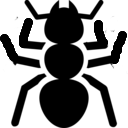
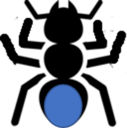
added color to ants

diff --git a/ant.cpp b/ant.cpp
@@ -3,7 +3,7 @@
 
 
 
-Ant::Ant(QString antPng, std::map<Coord, Cellule *> &_mapCellDispo, int _nbLigne, Coord &anthillPos) :
+Ant::Ant(QString antPng, std::map<Coord, Cellule *> &_mapCellDispo, int _nbLigne, Coord &anthillPos, QColor color) :
     mapCellDispo(_mapCellDispo),
     nbLigne(_nbLigne),
     antPng(antPng),
@@ -11,8 +11,24 @@ Ant::Ant(QString antPng, std::map<Coord, Cellule *> &_mapCellDispo, int _nbLigne
 {
     setx(anthillPos.x);
     setY(anthillPos.y);
-    setPixmap(QPixmap(antPng));
+
+    //color the ant
     this->antPng2 = this->antPng.left(this->antPng.lastIndexOf('.')) + "2.png";
+    this->antP = QPixmap(antPng);
+    auto mask = this->antP.createMaskFromColor(QColor(68,114,196), Qt::MaskOutColor)  ;
+    QPainter p (&this->antP);
+    p.setPen(color);
+    p.drawPixmap(this->antP.rect(), mask, mask.rect());
+    p.end();
+
+    this->antP2 = QPixmap(this->antPng2);
+    auto mask2 = this->antP2.createMaskFromColor(QColor(68,114,196), Qt::MaskOutColor)  ;
+    QPainter p2 (&this->antP2);
+    p2.setPen(color);
+    p2.drawPixmap(this->antP2.rect(), mask2, mask2.rect());
+    p2.end();
+
+    setPixmap(this->antP);
     this->setScale(scaleSize);
 
     QTimer * antTimer = new QTimer(this);
@@ -23,17 +39,35 @@ Ant::Ant(QString antPng, std::map<Coord, Cellule *> &_mapCellDispo, int _nbLigne
     antTimer->start(80);
 }
 
-Ant::Ant(QString antPng, std::map<Coord, Cellule *> &_mapCellDispo, int _nbLigne, Coord &anthillPos, bool _isAnthill):
+Ant::Ant(QString antPng, std::map<Coord, Cellule *> &_mapCellDispo, int _nbLigne, Coord &anthillPos, bool _isAnthill, QColor color):
     mapCellDispo(_mapCellDispo),
     nbLigne(_nbLigne),
     isAnthill(_isAnthill),
     antPng(antPng),    
     legPosition(0)
 {
+    this->scaleSize = 0.095;
     setx(anthillPos.x);
     setY(anthillPos.y);
-    setPixmap(QPixmap(antPng));
+    //color the ant
     this->antPng2 = this->antPng.left(this->antPng.lastIndexOf('.')) + "2.png";
+    this->antP = QPixmap(antPng);
+    auto mask = this->antP.createMaskFromColor(QColor(68,114,196), Qt::MaskOutColor)  ;
+    QPainter p (&this->antP);
+    p.setPen(color);
+    p.drawPixmap(this->antP.rect(), mask, mask.rect());
+    p.end();
+
+
+
+    this->antP2 = QPixmap(this->antPng2);
+    auto mask2 = this->antP2.createMaskFromColor(QColor(68,114,196), Qt::MaskOutColor)  ;
+    QPainter p2 (&this->antP2);
+    p2.setPen(color);
+    p2.drawPixmap(this->antP2.rect(), mask2, mask2.rect());
+    p2.end();
+
+    setPixmap(this->antP);
     this->setScale(scaleSize);
 
     if(this->isAnthill) {
@@ -174,12 +208,12 @@ void Ant::moveAnt(){
 void Ant::updatePixmap()
 {
     if (this->legPosition){
-        setPixmap(QPixmap(this->antPng));
+        setPixmap(this->antP);
         this->setScale(scaleSize);
         this->legPosition = 0;
     }else{
 
-        setPixmap(QPixmap(this->antPng2));
+        setPixmap(this->antP2);
         this->setScale(scaleSize);
         this->legPosition = 1;
     }

diff --git a/ant.h b/ant.h
@@ -6,6 +6,8 @@
 #include <windows.h>
 #include <QObject>
 #include <QTimer>
+#include <QPainter>
+#include <QtWidgets>
 #include <QPropertyAnimation>
 #include <QParallelAnimationGroup>
 #include <QSequentialAnimationGroup>
@@ -27,8 +29,8 @@ class Ant: public QObject, public QGraphicsPixmapItem
     Q_PROPERTY(qreal rotation READ rotation WRITE setRotation /*NOTIFY rotationChanged*/)
 public:
     Ant(){};
-    Ant(QString antPng, std::map<Coord, Cellule*>& _mapCellDispo, int _nbLigne, Coord &anthillPos);
-    Ant(QString antPng, std::map<Coord, Cellule*>& _mapCellDispo, int _nbLigne, Coord &anthillPos,bool isAnthill);
+    Ant(QString antPng, std::map<Coord, Cellule*>& _mapCellDispo, int _nbLigne, Coord &anthillPos, QColor color);
+    Ant(QString antPng, std::map<Coord, Cellule*>& _mapCellDispo, int _nbLigne, Coord &anthillPos, bool isAnthill, QColor color);
     //Ant(const Ant &ant);
     ~Ant(){};
 
@@ -55,6 +57,8 @@ private:
 
     QString antPng;
     QString antPng2;
+    QPixmap antP;
+    QPixmap antP2;
 
     Coord newCoord;
 

diff --git a/map.cpp b/map.cpp
@@ -160,13 +160,15 @@ void Map::generateAntHill()
                      << p.second   // string's value
                      << std::endl;
        }
-    Queen * queen = new Queen(":/assets/queen.png",this->mapCellInAnthill, 10,antHillCoord, true);
+    Queen * queen = new Queen(":/assets/queen.png",this->mapCellInAnthill, 10,antHillCoord, true, QColor(Qt::red));
     queen->setZValue(3);
 
     this->scene->addItem(queen);
 
-    Ant * ant = new Ant(":/assets/ant.png", this->mapMove, this->coord.y,antHillCoord);
+    Ant * ant = new Ant(":/assets/ant.png", this->mapMove, this->coord.y,antHillCoord, QColor(Qt::red));
     ant->setZValue(3);
+    //change color of the ant
+
 
     this->scene->addItem(ant);
 

diff --git a/queen.cpp b/queen.cpp
@@ -1,6 +1,6 @@
 #include "queen.h"
 
-Queen::Queen(QString antPng, std::map<Coord, Cellule*>& _mapCellDispo, int _nbLigne, Coord &anthillPos, bool isAnthill) : Ant(antPng, _mapCellDispo, _nbLigne, anthillPos, isAnthill)
+Queen::Queen(QString antPng, std::map<Coord, Cellule*>& _mapCellDispo, int _nbLigne, Coord &anthillPos, bool isAnthill, QColor color) : Ant(antPng, _mapCellDispo, _nbLigne, anthillPos, isAnthill, color)
 {
 
 }

diff --git a/queen.h b/queen.h
@@ -8,7 +8,7 @@ class Queen :  public Ant
 {
 
 public:
-    explicit Queen(QString antPng, std::map<Coord, Cellule*>& _mapCellDispo, int _nbLigne, Coord &anthillPos, bool isAnthill);
+    explicit Queen(QString antPng, std::map<Coord, Cellule*>& _mapCellDispo, int _nbLigne, Coord &anthillPos, bool isAnthill, QColor color);
 
 signals:
 
